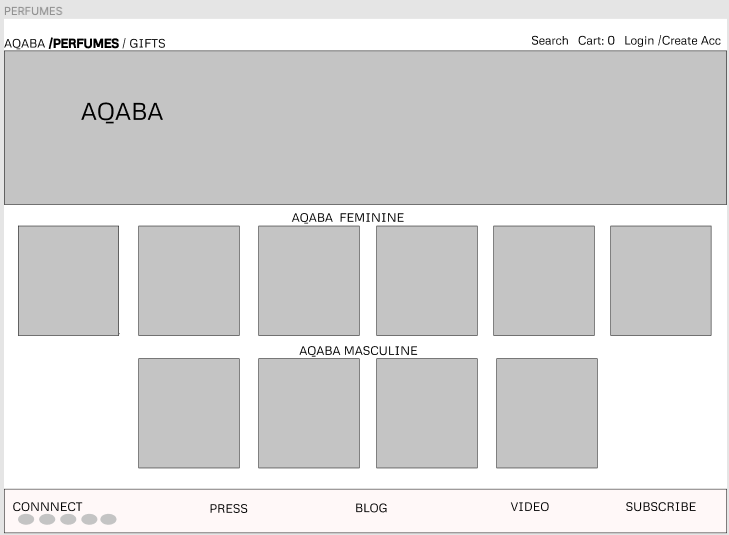
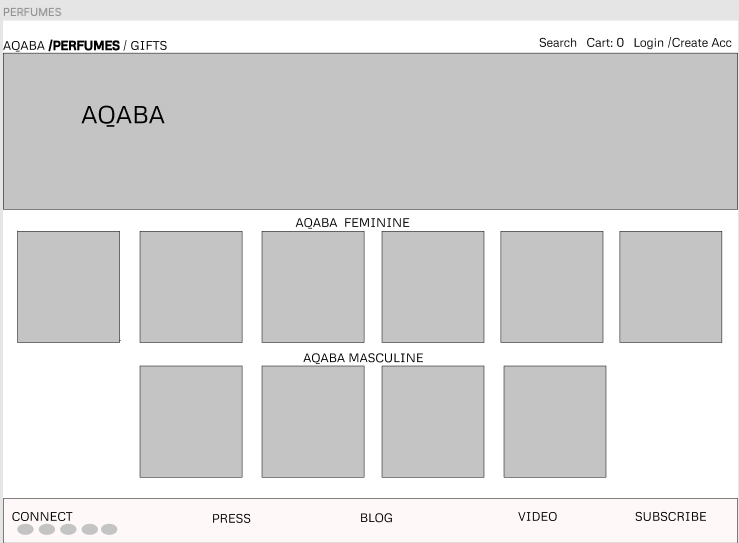
edited connect and title on wireframes

diff --git a/README.md b/README.md
@@ -1,4 +1,4 @@
-# Aqaba: A complete makeover of the Aqaba perfume 
+# Aqaba: A complete makeover of the Aqaba website
 
 ### Tools Used:
 
